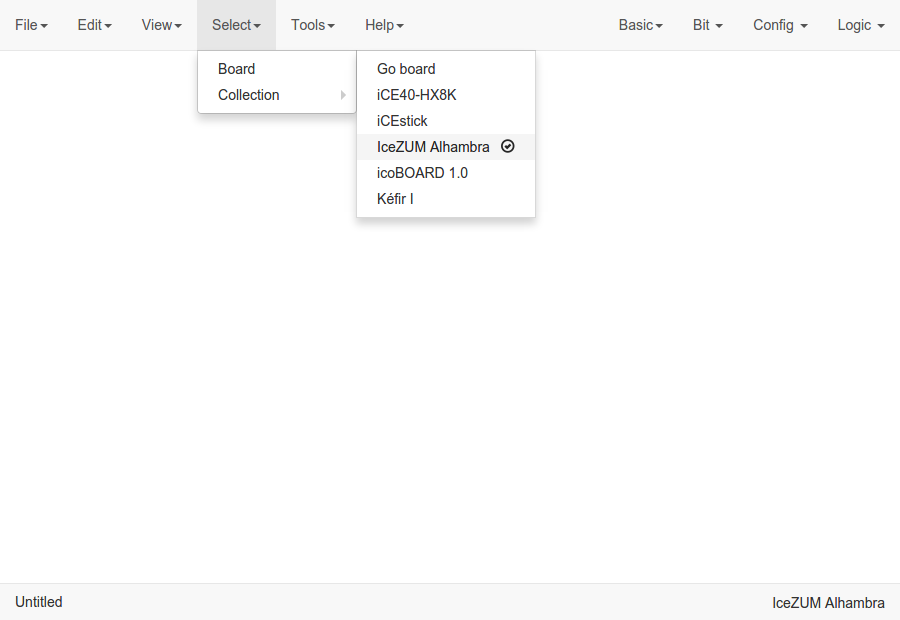
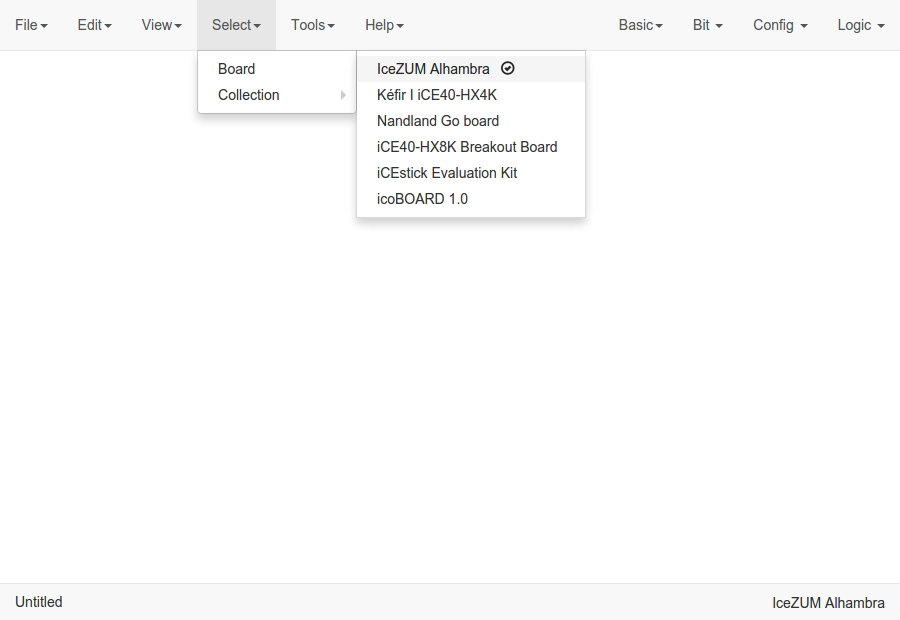
Update quickstart & userguide

Changed region(s): [[0.4044, 0.0919, 0.6222, 0.3371], [0.5911, 0.3371, 0.6533, 0.3677]]

diff --git a/conf.py b/conf.py
@@ -54,9 +54,9 @@ author = u'Jesús Arroyo Torrens'
 # built documents.
 #
 # The short X.Y version.
-version = u'0.3.0-beta3'
+version = u'0.3.0-rc'
 # The full version, including alpha/beta/rc tags.
-release = u'0.3.0-beta3'
+release = u'0.3.0-rc'
 
 # The language for content autogenerated by Sphinx. Refer to documentation
 # for a list of supported languages.

diff --git a/source/userguide.rst b/source/userguide.rst
@@ -86,7 +86,14 @@ More information in the `Board rules section <./rules.html>`_.
 
 **Language**
 
-Select the application language: English, Spanish, Galician, Basque and French.
+The supported languages are:
+
+* English
+* Spanish
+* Galician
+* Basque
+* French
+* Catalan
 
 **Remote hostname**
 
@@ -113,7 +120,16 @@ Select
 
 **Board**
 
-Select the FPGA board. The supported boards are: **IceZUM Alhambra**, **Go board**, **iCEstick**, **iCE40-HX8K**, **icoBOARD 1.0**, **Kéfir I**. When a board is selected all I/O block combos are updated and its current values reset.
+Select the FPGA board. The supported boards are:
+
+* `IceZUM Alhambra <https://github.com/FPGAwars/icezum>`_
+* `Kéfir I iCE40-HX4K <http://fpgalibre.sourceforge.net/Kefir/>`_
+* `Nandland Go board <https://www.nandland.com/goboard/introduction.html>`_
+* `iCE40-HX8K Breakout Board <http://www.latticesemi.com/en/Products/DevelopmentBoardsAndKits/iCE40HX8KBreakoutBoard.aspx>`_
+* `iCEstick Evaluation Kit <http://www.pighixxx.com/test/portfolio-items/icestick/>`_
+* `icoBOARD 1.0 <http://icoboard.org/about-icoboard.html>`_
+
+When a board is selected all I/O block combos are updated and its current values reset.
 
 .. hint::
 
@@ -270,7 +286,7 @@ This is the main panel. It contains the blocks and the wires.
 Pan & Zoom
 ``````````
 
-Pan is performed using the **mouse left button** over the background. Zoom is performed using **mouse wheel**. Both values can be reset in *Edit > Reset view*.
+Pan is performed using the **Ctrl + mouse left button** or **mouse right button** over the background. Zoom is performed using **mouse wheel**. Both values can be reset in *Edit > Reset view*.
 
 .. image:: ../resources/images/userguide/pan-zoom.png
 
@@ -278,11 +294,10 @@ Pan is performed using the **mouse left button** over the background. Zoom is pe
 Select
 ``````
 
-Block selection is performed using the **mouse right button**. Blocks can be selected/unselected individually using `Right-click/Ctrl+Right-click`, respectively. In addition, several blocks can be selected by a selection box. A selection is canceled when the background is `Right-clicked`.
+Block selection is performed using the **mouse left button**. Blocks can be **selected/unselected** individually using **left-click/Shift+left-click**, respectively. In addition, several blocks can be selected by a **selection box**. When using the **Shift key**, the new selection is added to the previous one. A selection is canceled when the background is **left-clicked**.
 
 .. image:: ../resources/images/userguide/select.png
 
-f
 Move blocks
 ```````````
 
@@ -293,7 +308,7 @@ Any block or blocks selection can be moved in the design using the **mouse left 
 Resize text blocks
 ``````````````````
 
-**Code** and **Information** blocks can be resized with the resize tool in the **bottom-right** corner of the block.
+**Code** and **Information** blocks can be resized with the resize tool in the **bottom-right corner** of the block.
 
 .. image:: ../resources/images/userguide/resize.png
 
@@ -329,4 +344,4 @@ Icestudio allows to undo/redo the following actions:
 Take a snapshot
 ---------------
 
-Taking a **png** snapshot of the application is as easy as press `Ctrl+P`. A save dialog appears to set the name and the path of the captured image.
+Taking a **png** snapshot of the application is as easy as press **Ctrl+P**. A save dialog appears to set the name and the path of the captured image.

diff --git a/source/installation.rst b/source/installation.rst
@@ -7,14 +7,15 @@ GNU/Linux
 ---------
 
 1. Install `Python 2.7 <https://www.python.org>`_ and **xclip** (to enable Copy/Paste).
-2. Download the `zipped release <https://github.com/FPGAwars/icestudio/releases/tag/0.3.0-beta3>`_, unzip and execute **icestudio**.
+2. Download the `AppImage <https://github.com/FPGAwars/icestudio/releases/tag/0.3.0-rc1>`_ file and make it executable:
+
+.. code::
+
+  $ chmod a+x icestudio-0.3.0*.AppImage
 
 .. hint::
 
-  Execute the script `linux_installer.sh <https://github.com/FPGAwars/icestudio/blob/develop/scripts/linux_installer.sh>`_ to generate a desktop access to your unzipped Icestudio. This script also registers the *.ice* files as *Icestudio project*. There is also a `linux_uninstaller.sh <https://github.com/FPGAwars/icestudio/blob/develop/scripts/linux_uninstaller.sh>`_ to revert the previous configuration.
-
-  .. image:: ../resources/images/installation/linux.png
-     :align: center
+  You can download the ZIP release and install it in the system using the script `linux_installer.sh <https://github.com/FPGAwars/icestudio/blob/develop/scripts/linux_installer.sh>`_. This script registers the *.ice* files as *Icestudio project*. There is also a `linux_uninstaller.sh <https://github.com/FPGAwars/icestudio/blob/develop/scripts/linux_uninstaller.sh>`_ to revert the previous configuration.
 
 Windows
 -------
@@ -26,7 +27,7 @@ Windows
 
 .. note::
 
-  Python 2.7 will install if it is not installed. This installer registers the *.ice* files as *Icestudio project*.
+  Python 2.7 will be installed automatically if it is not installed. This installer registers the *.ice* files as *Icestudio project*.
 
 Mac OS X
 --------

diff --git a/index.rst b/index.rst
@@ -10,11 +10,11 @@ Icestudio is a graphic IDE for open FPGAs. It is built on top of the `icestorm p
 Supported boards:
 
 * `IceZUM Alhambra <https://github.com/FPGAwars/icezum>`_
+* `Kéfir I iCE40-HX4K <http://fpgalibre.sourceforge.net/Kefir/>`_
 * `Nandland Go board <https://www.nandland.com/goboard/introduction.html>`_
 * `iCE40-HX8K Breakout Board <http://www.latticesemi.com/en/Products/DevelopmentBoardsAndKits/iCE40HX8KBreakoutBoard.aspx>`_
 * `iCEstick Evaluation Kit <http://www.pighixxx.com/test/portfolio-items/icestick/>`_
-* `icoBOARD 1.0 <http://icoboard.org/icoboard-1-0.html>`_
-* `Kéfir I <http://fpgalibre.sourceforge.net/Kefir/>`_
+* `icoBOARD 1.0 <http://icoboard.org/about-icoboard.html>`_
 
 **Source code**: https://github.com/FPGAwars/icestudio
 

diff --git a/source/quickstart.rst b/source/quickstart.rst
@@ -10,7 +10,7 @@ Go to **Tools > Toolchain > Install**
 
 .. image:: ../resources/images/quickstart/toolchain.png
 
-`Apio <https://github.com/FPGAwars/apio>`_ backend will be installed, and all its needed `packages <https://github.com/FPGAwars/apio#apio-packages>`_.
+`Apio <https://github.com/FPGAwars/apio>`_ backend will be installed, and all its needed `packages <https://github.com/FPGAwars/apio#apio-packages>`_. This operation does not require Internet connection.
 
 Setup the drivers
 -----------------
